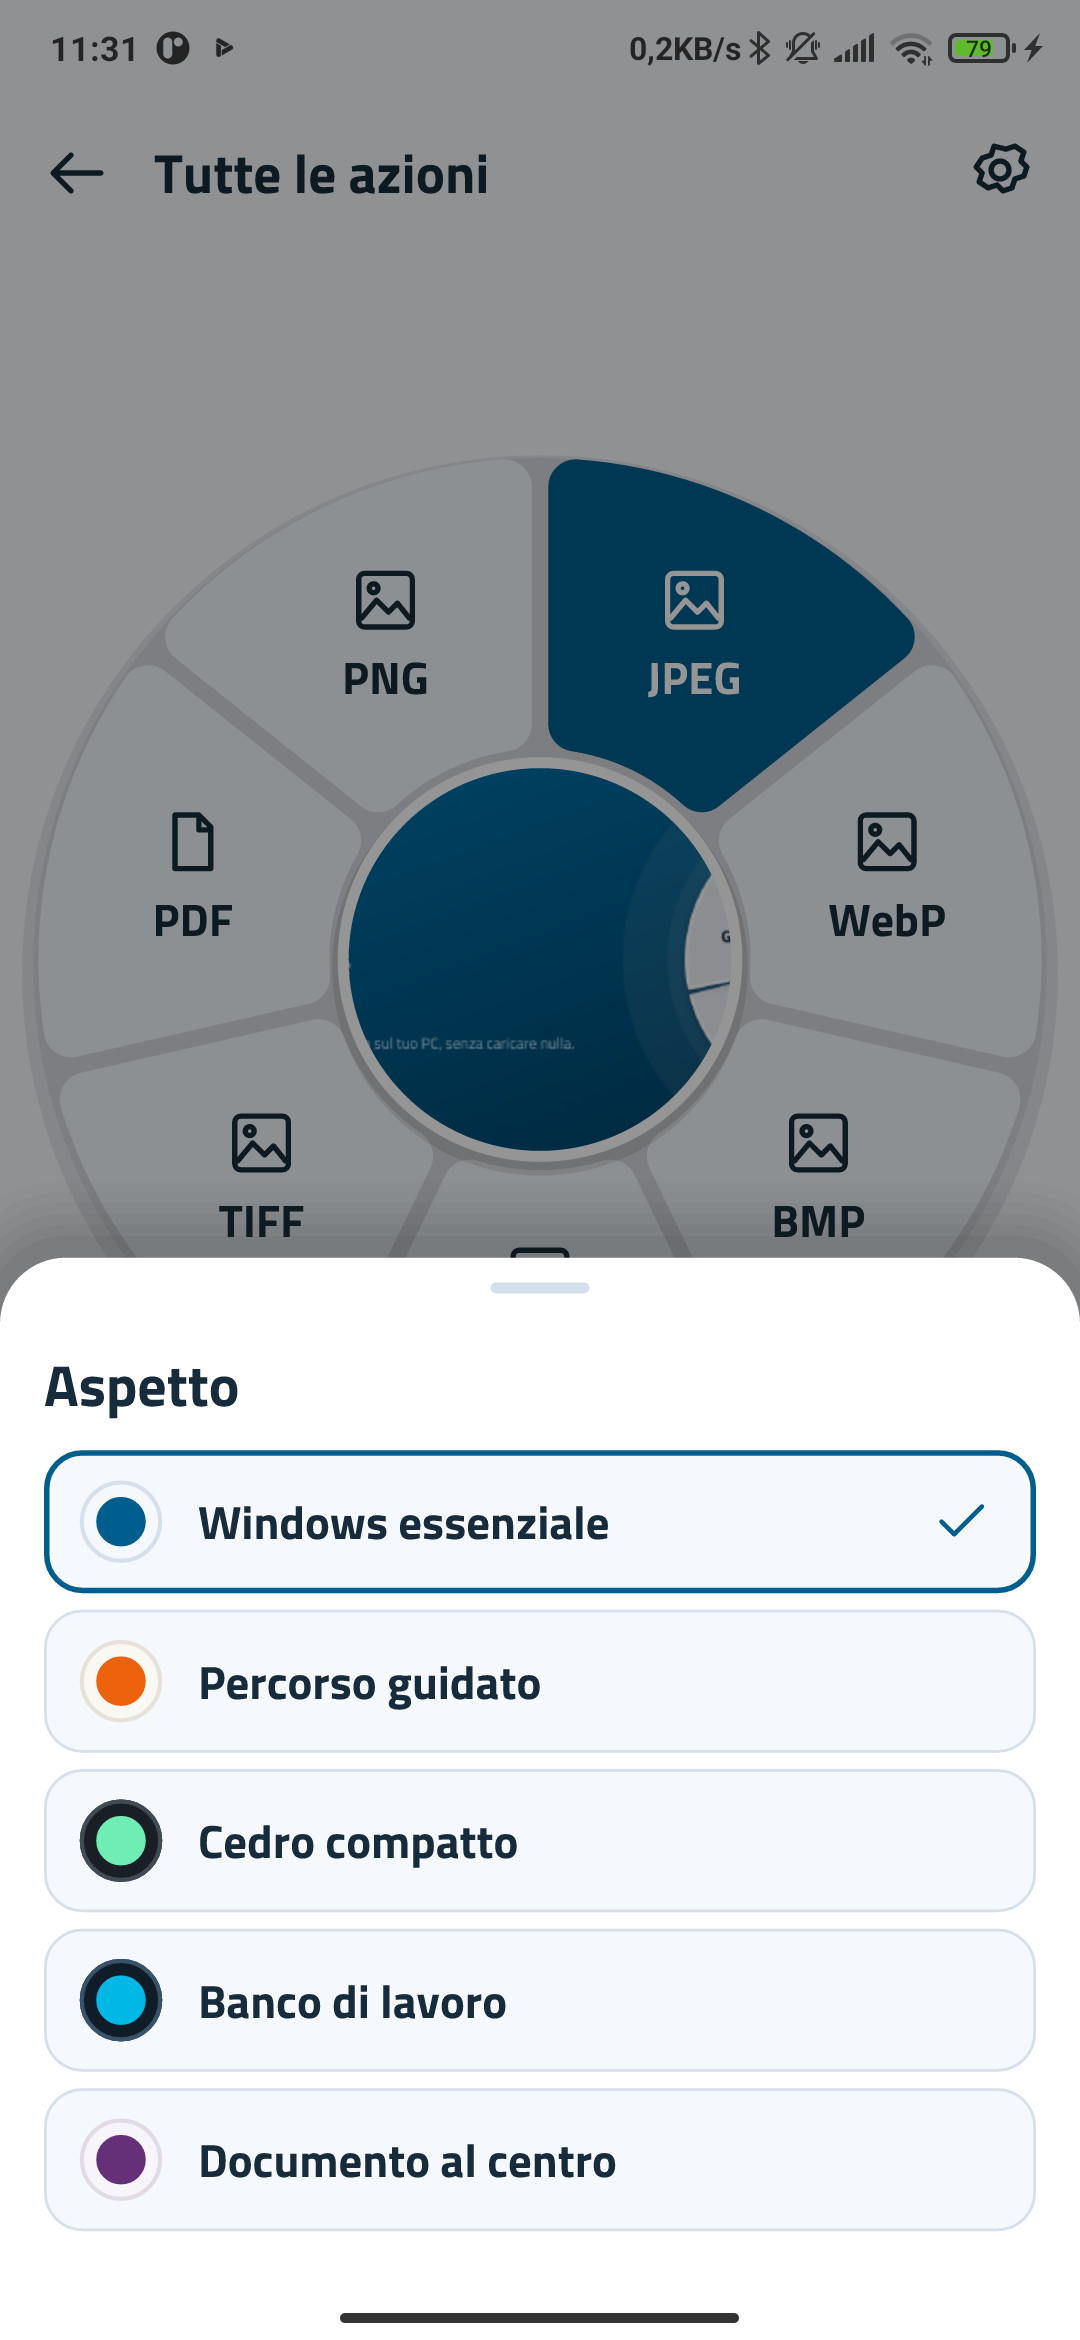
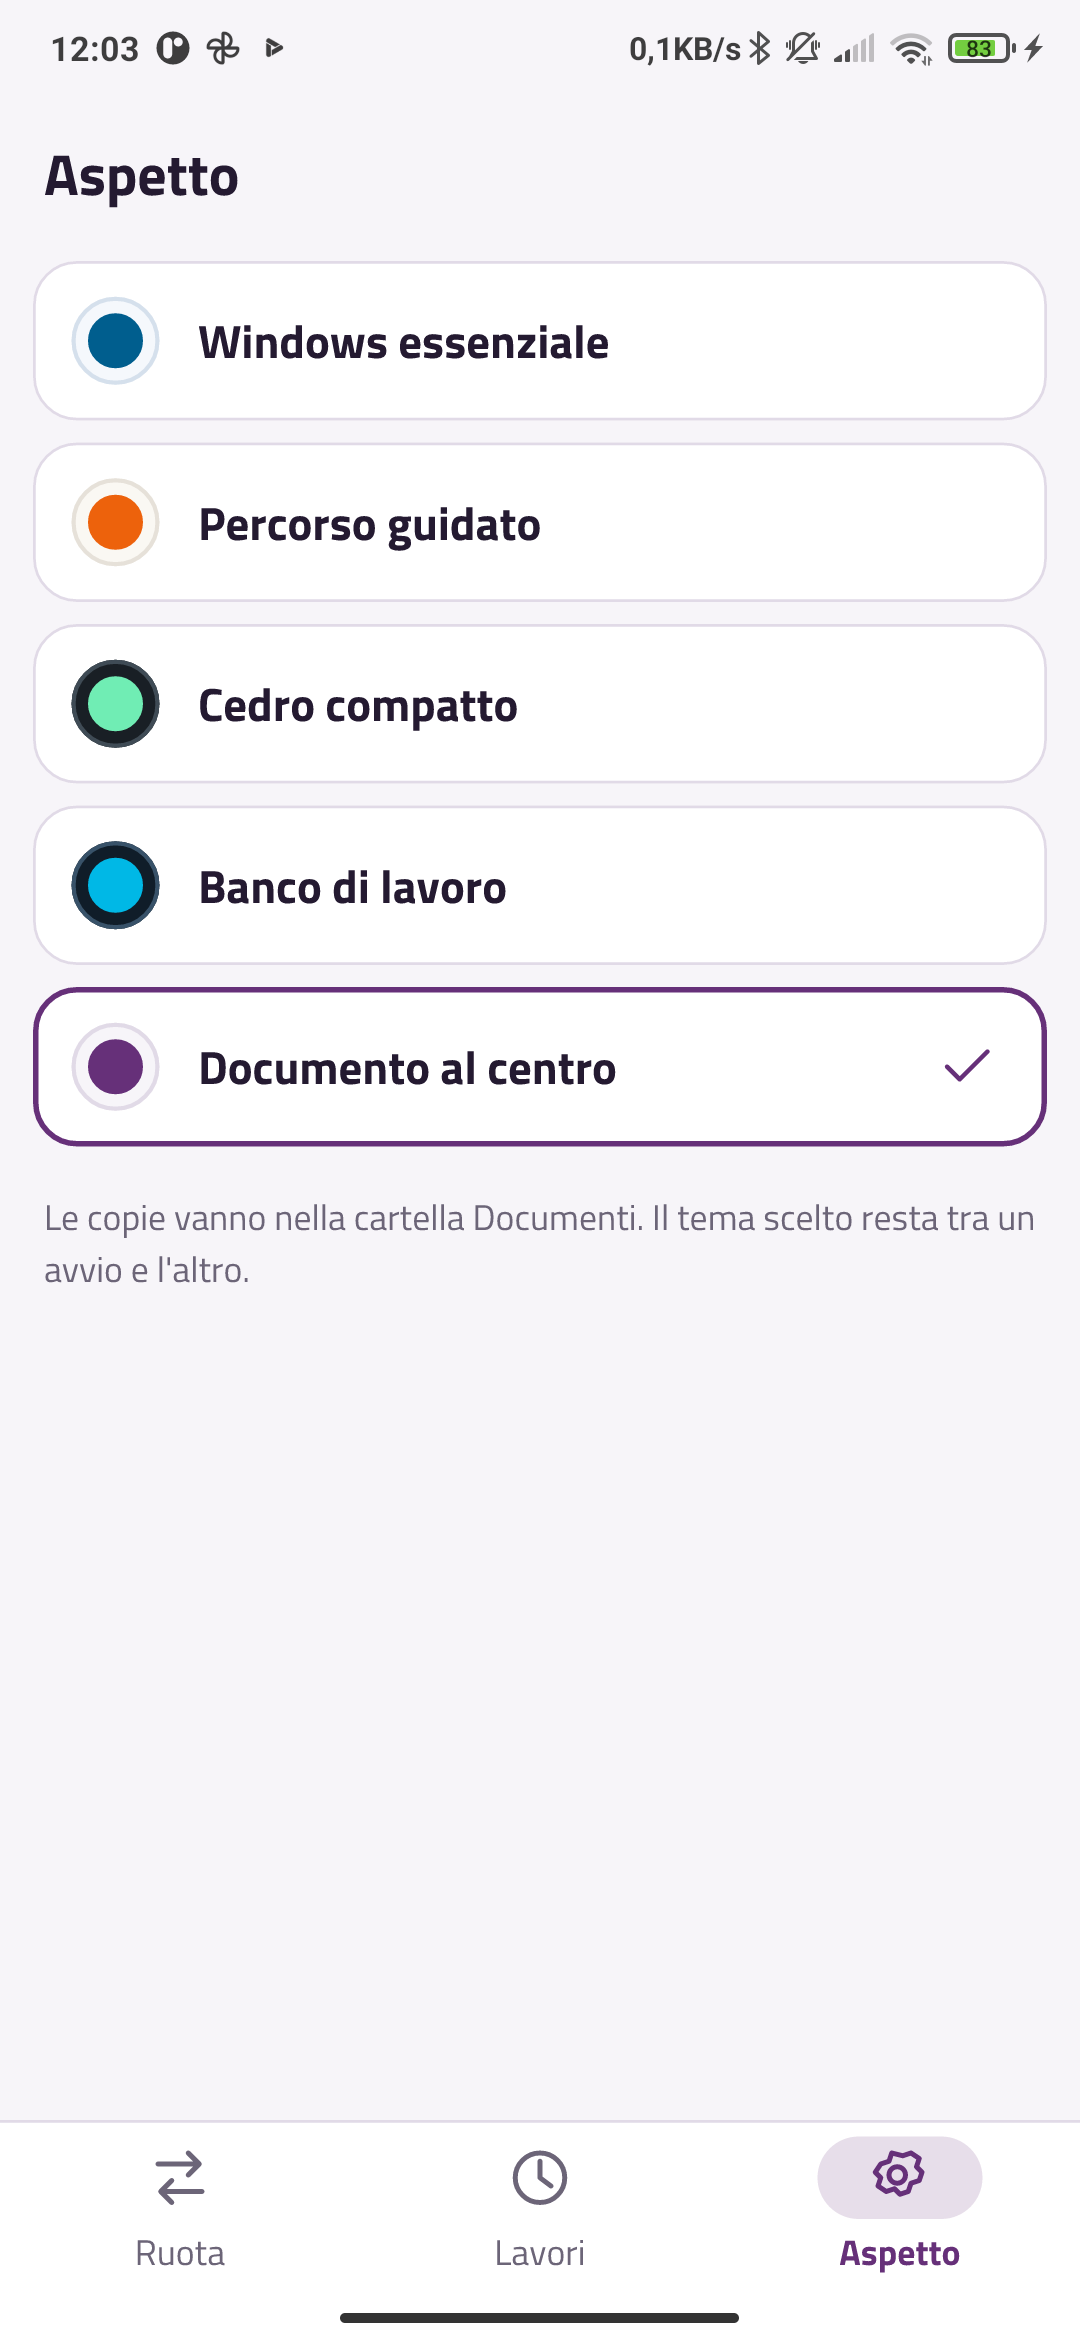
Android: singleTask e onNewIntent (nuova condivisione a app aperta), screenshot dal Mi 9T, README

diff --git a/android/java/it/cedro/android/CedroActivity.java b/android/java/it/cedro/android/CedroActivity.java
@@ -5,12 +5,29 @@ import android.content.Intent;
 import android.net.Uri;
 
 /**
- * Tutto Cedro è Rust. Questa classe esiste solo perché NativeActivity non inoltra onActivityResult:
- * senza, il selettore di file di Android non può restituire la scelta. Rust la legge con scelto().
+ * Tutto Cedro è Rust. Questa classe esiste solo perché NativeActivity non inoltra onActivityResult né onNewIntent:
+ * senza, il selettore di file non può restituire la scelta e una nuova condivisione a app aperta si perde.
+ * Rust legge tutto con scelto() e novita().
  */
 public class CedroActivity extends NativeActivity {
     public static final int CODICE_SCELTA = 4242;
     private volatile Uri scelto;
+    private volatile boolean novita;
+
+    /** Una nuova condivisione (o l'apertura dall'icona) mentre Cedro è già aperto. */
+    @Override
+    protected void onNewIntent(Intent intento) {
+        super.onNewIntent(intento);
+        setIntent(intento);
+        novita = true;
+    }
+
+    /** Vero, una volta sola, se è arrivato un nuovo intento da leggere con getIntent(). */
+    public boolean novita() {
+        boolean n = novita;
+        novita = false;
+        return n;
+    }
 
     @Override
     protected void onActivityResult(int richiesta, int esito, Intent dati) {

diff --git a/android/src/glue.rs b/android/src/glue.rs
@@ -720,6 +720,14 @@ fn android_main(app: AndroidApp) {
                 }
             }
         }
+        // Una nuova condivisione mentre Cedro è già aperto.
+        if con_attivita(&app, |env, att| env.call_method(att, "novita", "()Z", &[]).and_then(|v| v.z()).map_err(|e| jerr(env, e))).unwrap_or(false) {
+            if let Ok(Some(c)) = leggi_condivisione(&app, &cartella) {
+                log::info!("ricevuto {} ({})", c.nome, c.path.display());
+                carica_file(&mut ui, &consegne, &cartella, c.path, c.nome, true);
+                sporco = true;
+            }
+        }
         if attesa_scelta {
             match scelto(&app, &cartella) {
                 Some(Ok(c)) => {

diff --git a/android/README.md b/android/README.md
@@ -27,8 +27,8 @@ condivisione a app aperta non ricarica l'intento (chiudere e ripetere); solo arm
 ## L'unica eccezione: una classe Java
 
 Tutto è Rust tranne `java/it/cedro/android/CedroActivity.java` (una ventina di righe): `NativeActivity` non inoltra
-`onActivityResult`, quindi senza questa classe il selettore di file di Android non potrebbe restituire la scelta.
-La classe fa solo da inoltro (`scelto()` restituisce l'ultimo `Uri`); intento, lettura e copia del file sono in Rust (JNI).
+`onActivityResult`, e `onNewIntent`, quindi senza questa classe il selettore di file di Android non potrebbe restituire la scelta e una nuova condivisione a app aperta andrebbe persa.
+La classe fa solo da inoltro (`scelto()` restituisce l'ultimo `Uri`, `novita()` dice se è arrivato un nuovo intento); intento, lettura e copia del file sono in Rust (JNI).
 `build.sh` la compila con `javac` + `d8` e la mette nell'APK come `classes.dex`.
 «Apri» e «Condividi» non usano un FileProvider: il risultato si registra in MediaStore (`MediaScannerConnection`) e si usa il suo `content://`.
 
@@ -40,6 +40,6 @@ mdpi–xxxhdpi quadrata e tonda; `android:icon` e `android:roundIcon` nel manife
 ## Limiti noti
 
 - Scrive in `/storage/emulated/0/Documents` (target SDK 29 + legacy storage, permesso richiesto a runtime).
-- `noHistory`: Cedro si chiude quando si esce, così ogni «Condividi» parte da zero (NativeActivity non riceve i nuovi intenti).
+- `singleTask`: una nuova condivisione a Cedro già aperto arriva da `onNewIntent` (inoltrato dalla classe Java) e sostituisce il file.
 - Il lavoro gira finché l'app è in primo piano: manca ancora un servizio con notifica per i lavori lunghi.
 - «Ritaglia» non esiste nel motore, quindi non c'è. Solo arm64; video, trascrizione e OCR non provati su Android.
